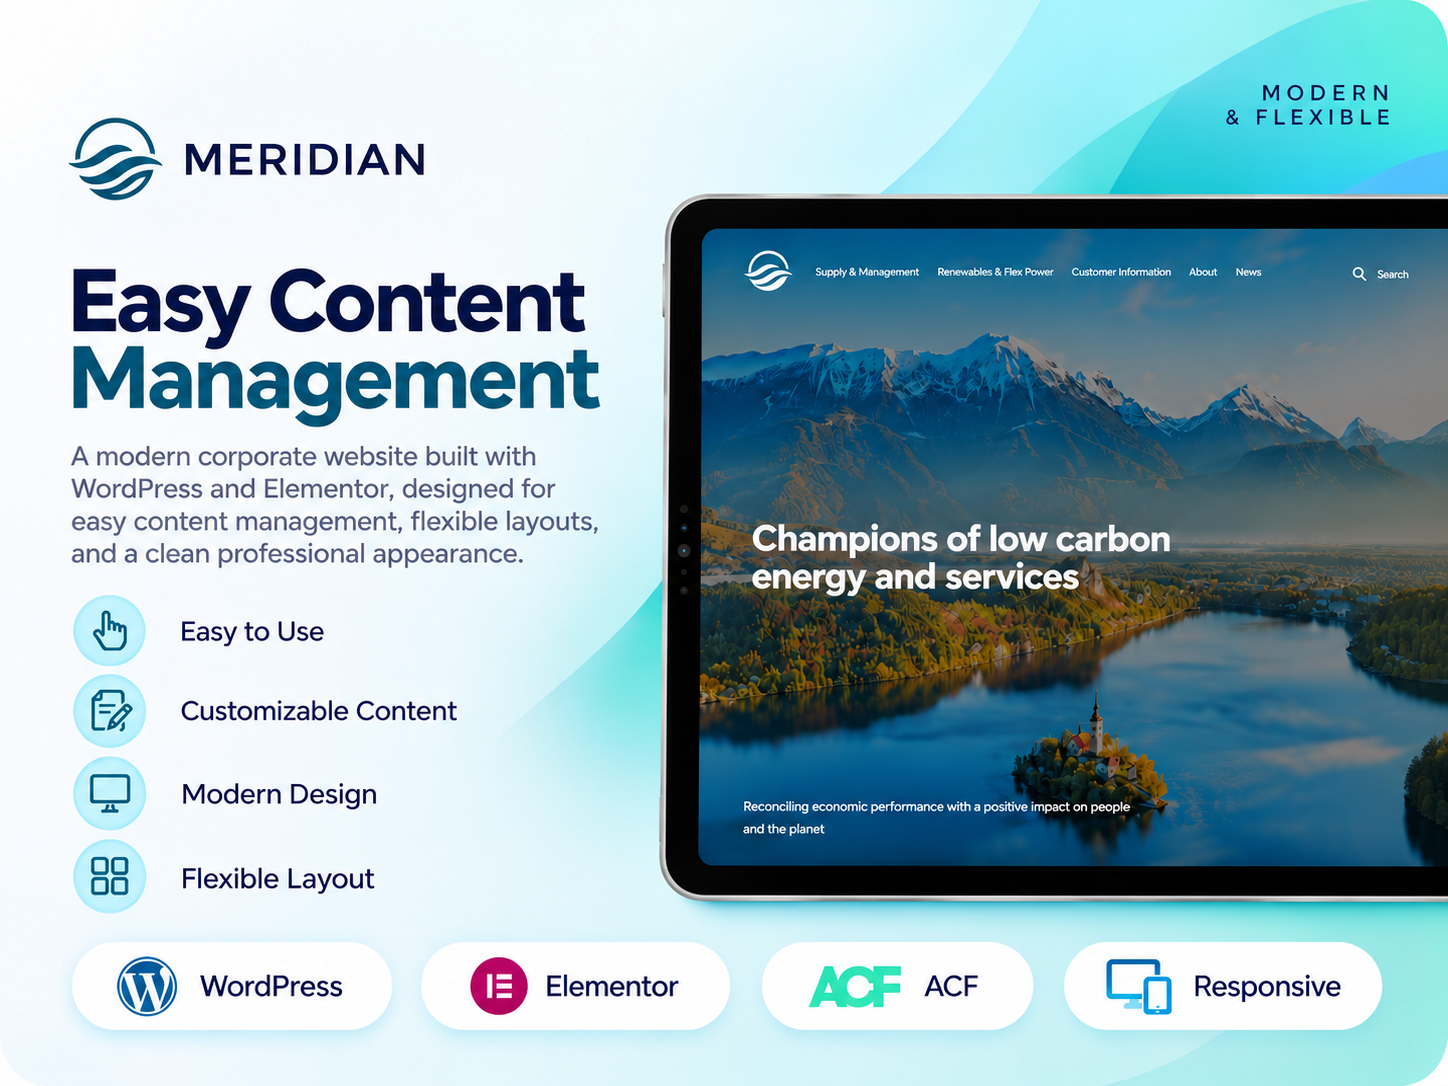
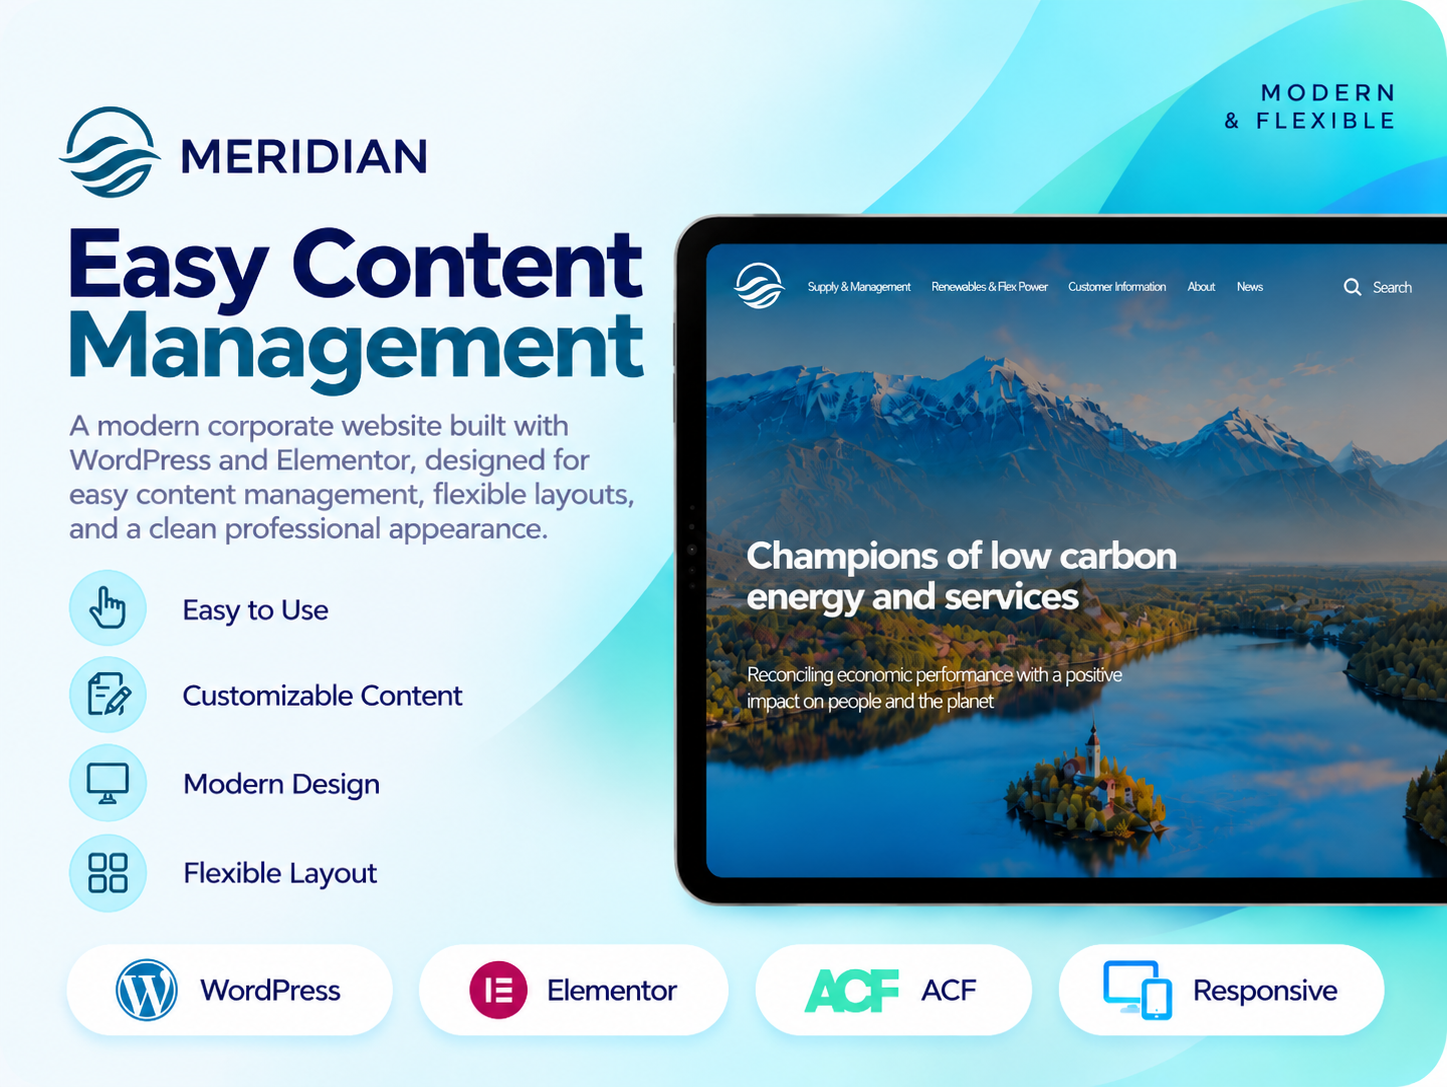
feat: update MERIDIAN project image and version

diff --git a/components/portfolio.tsx b/components/portfolio.tsx
@@ -19,7 +19,7 @@ const portfolioProjects = [
     title: "MERIDIAN",
     description:
       "A modern corporate energy website built with WordPress, featuring flexible layouts, customizable content, and easy content management.",
-    image: "/images/projects/meridian.png?v=2",
+    image: "/images/projects/meridian_1.png?v=5",
     demoUrl: "https://meridian.yanafriyoko.com/",
     stack: ["WordPress", "Elementor", "ACF"],
   },
